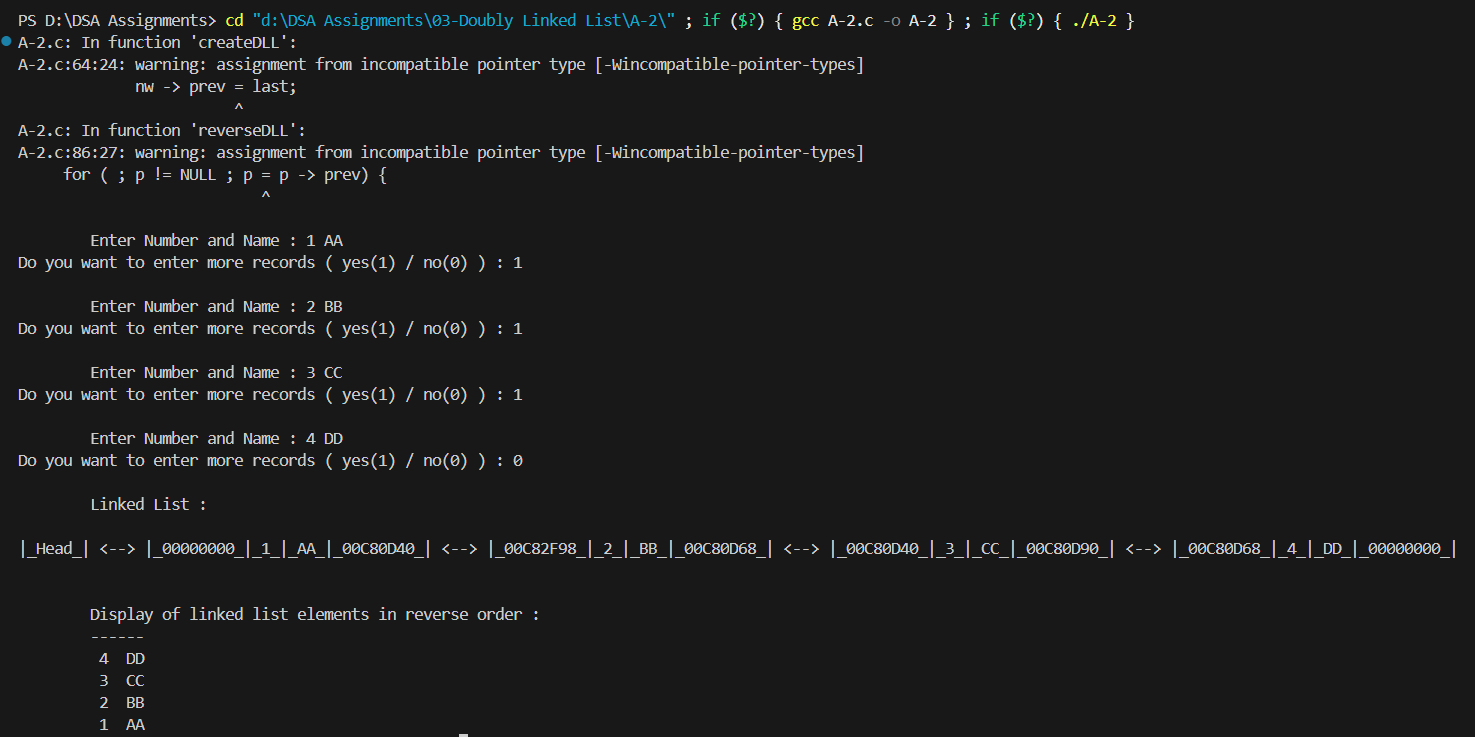
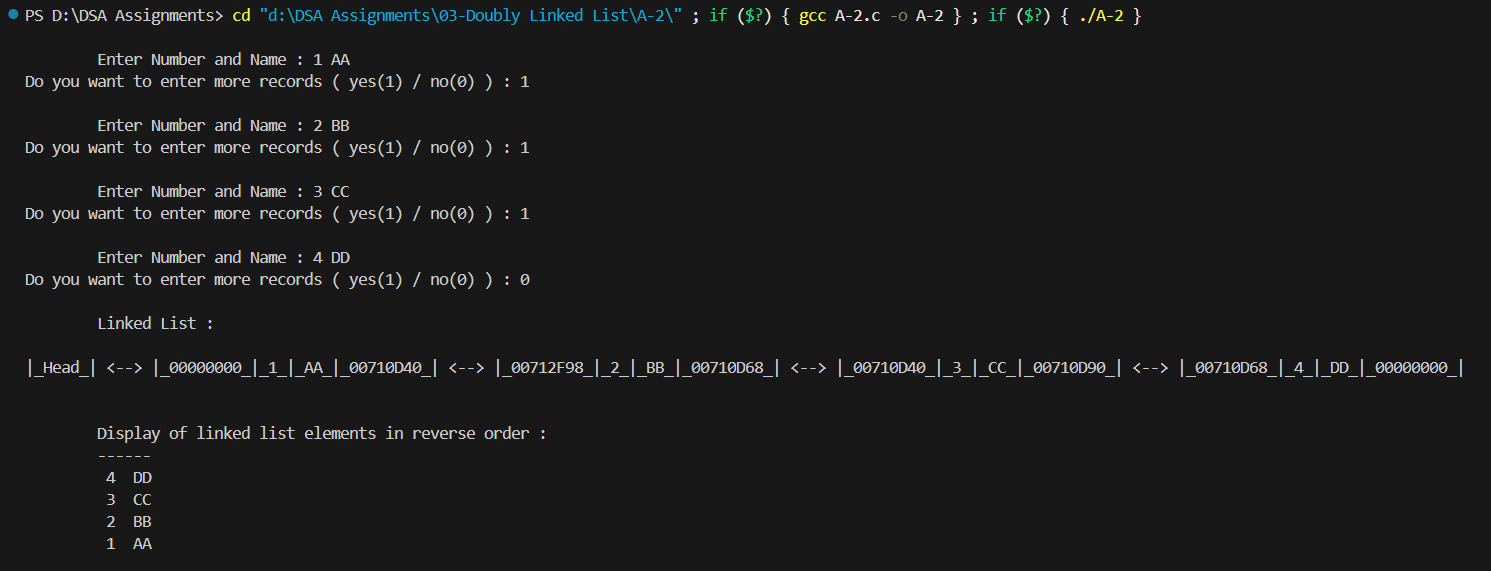
Doubly Linked List Assignment No. 2

diff --git a/03-Doubly Linked List/A-2/A-2.c b/03-Doubly Linked List/A-2/A-2.c
@@ -3,7 +3,7 @@
 */
 
 /* 
-    Input -> |_Head_| <--> |_00000000_|_1_|_AA_|_00C80D40_| <--> |_00C82F98_|_2_|_BB_|_00C80D68_| <--> |_00C80D40_|_3_|_CC_|_00C80D90_| <--> |_00C80D68_|_4_|_DD_|_00000000_|                  
+    Input -> |_Head_| <--> |_00000000_|_1_|_AA_|_00710D40_| <--> |_00712F98_|_2_|_BB_|_00710D68_| <--> |_00710D40_|_3_|_CC_|_00710D90_| <--> |_00710D68_|_4_|_DD_|_00000000_| 
 */
 
 #include<stdio.h>
@@ -14,7 +14,7 @@ typedef struct DLLNode
     int number;
     char name[20];
     struct DLLNode *next;
-    struct DLlNode *prev;
+    struct DLLNode *prev;
 } DLLNode;
 
 DLLNode* createDLL();
@@ -86,6 +86,7 @@ void reverseDLL(DLLNode *head) {
     for ( ; p != NULL ; p = p -> prev) {
         printf("\n\t %d  %s", p -> number, p -> name);
     }
+    printf("\n\n");
 
 }
 
@@ -109,11 +110,11 @@ void freeDLL(DLLNode *f) {
 
 /*
     Output ->
-                    Enter Number and Name : 1 AA     
+                   Enter Number and Name : 1 AA
             Do you want to enter more records ( yes(1) / no(0) ) : 1
 
                     Enter Number and Name : 2 BB
-            Do you want to enter more records ( yes(1) / no(0) ) : 1
+            Do you want to enter more records ( yes(1) / no(0) ) : 1 
 
                     Enter Number and Name : 3 CC
             Do you want to enter more records ( yes(1) / no(0) ) : 1
@@ -123,7 +124,7 @@ void freeDLL(DLLNode *f) {
 
                     Linked List : 
 
-            |_Head_| <--> |_00000000_|_1_|_AA_|_00C80D40_| <--> |_00C82F98_|_2_|_BB_|_00C80D68_| <--> |_00C80D40_|_3_|_CC_|_00C80D90_| <--> |_00C80D68_|_4_|_DD_|_00000000_| 
+            |_Head_| <--> |_00000000_|_1_|_AA_|_00710D40_| <--> |_00712F98_|_2_|_BB_|_00710D68_| <--> |_00710D40_|_3_|_CC_|_00710D90_| <--> |_00710D68_|_4_|_DD_|_00000000_| 
 
 
                     Display of linked list elements in reverse order : 
